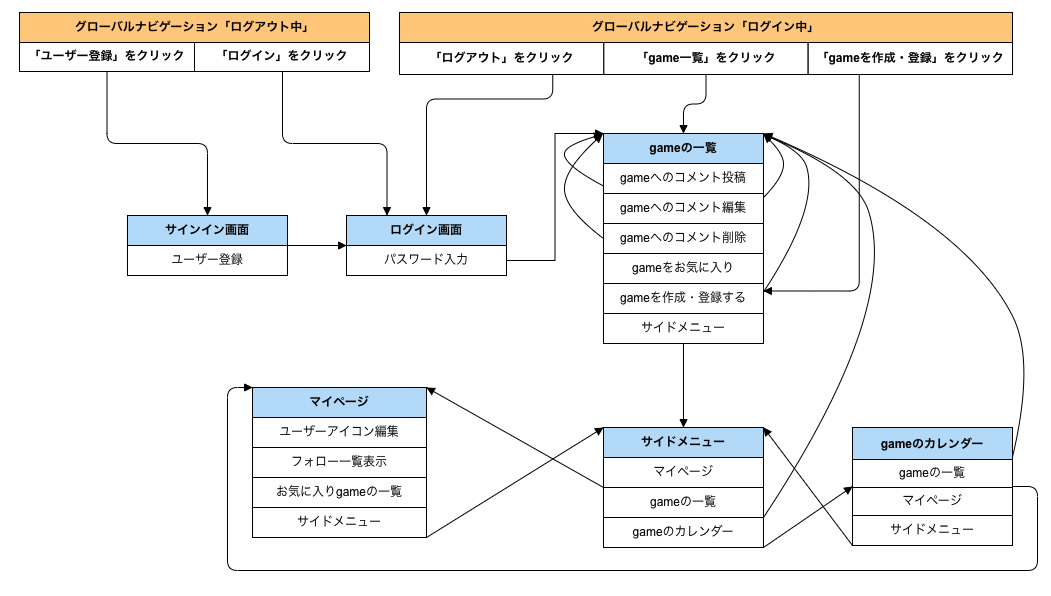
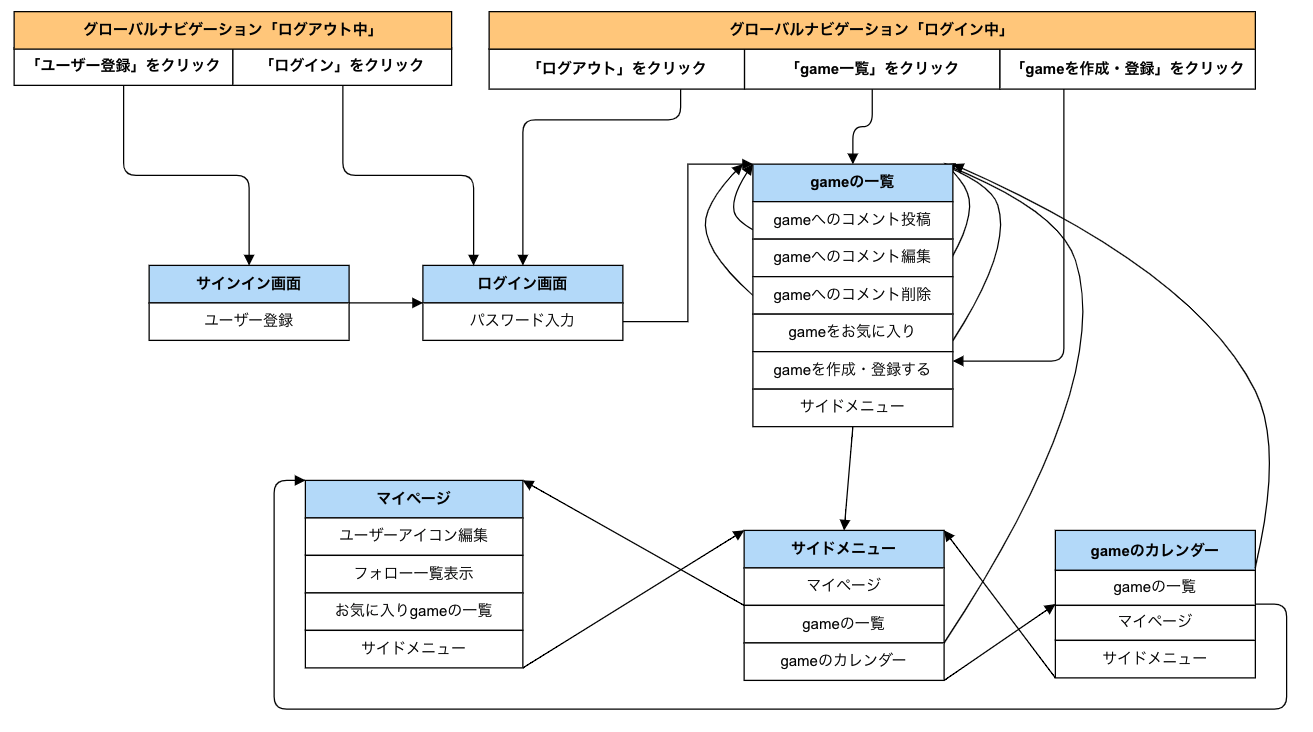
画面遷移図の修正

diff --git a/README.md b/README.md
@@ -39,7 +39,7 @@ $ rails db:create && rails db:migrate
 $ rails s
 ````
 
-## カタログ  
+## カタログ設計  
 https://docs.google.com/spreadsheets/d/14LryNe5jRJ_aXTc7gwYj9obVwUx2zzTddIJnwSfIuZ8/edit?usp=sharing
 
 ## テーブル定義・ER図
